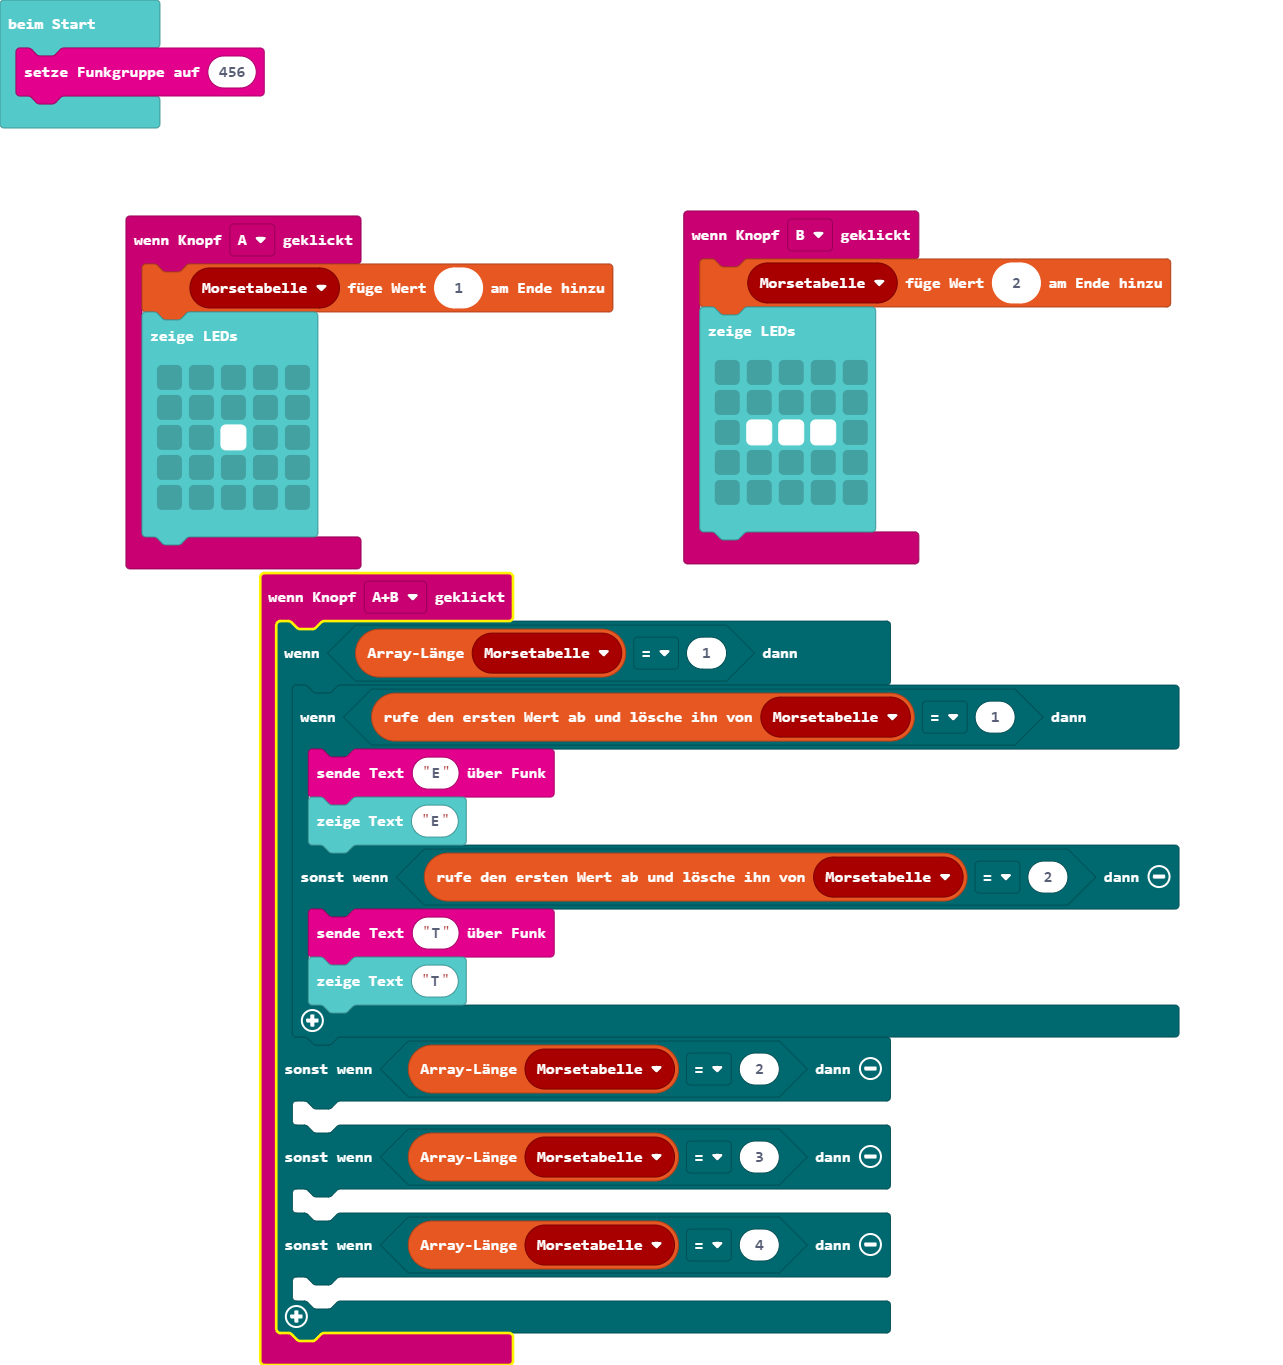
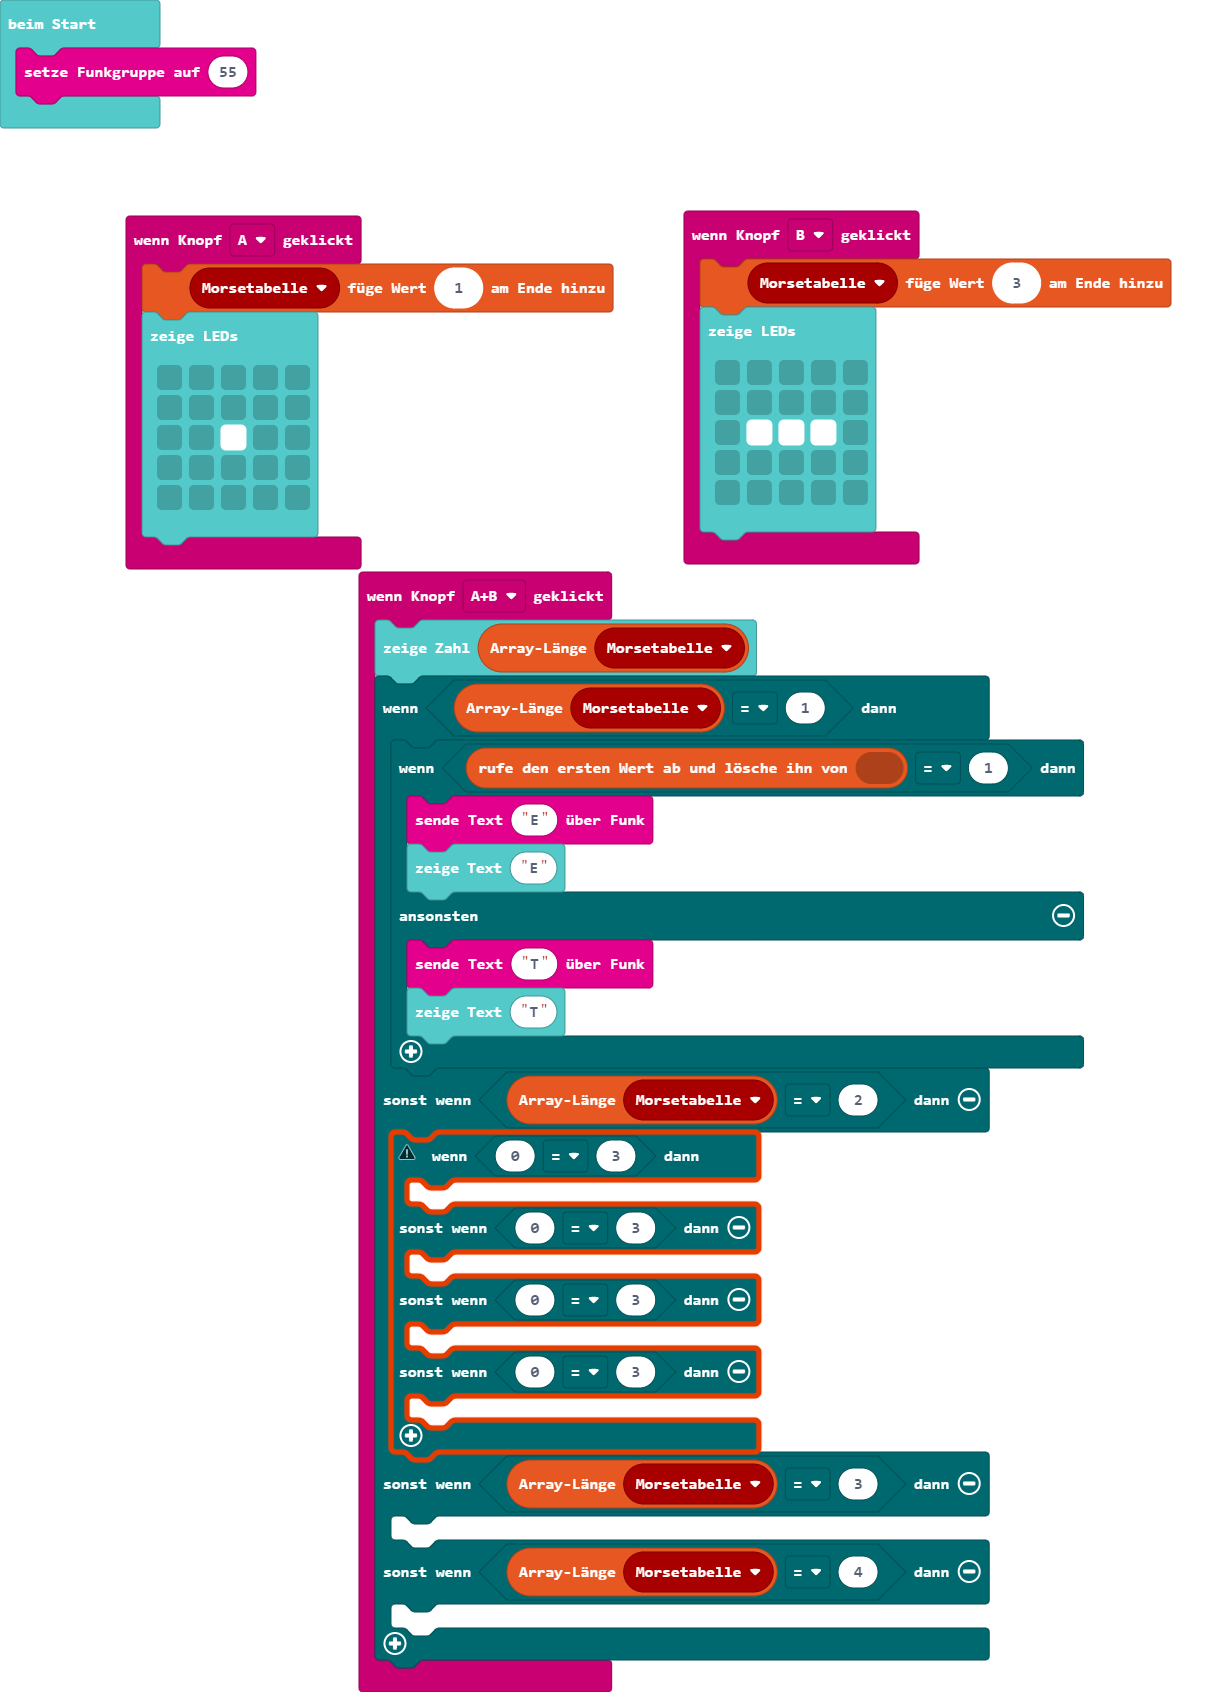
Aktualisiere pxt.json, main.blocks, main.ts

diff --git a/main.ts b/main.ts
@@ -9,16 +9,25 @@ input.onButtonPressed(Button.A, function () {
         `)
 })
 input.onButtonPressed(Button.AB, function () {
+    basic.showNumber(Morsetabelle.length)
     if (Morsetabelle.length == 1) {
         if (Morsetabelle.shift() == 1) {
             radio.sendString("E")
             basic.showString("E")
-        } else if (Morsetabelle.shift() == 2) {
+        } else {
             radio.sendString("T")
             basic.showString("T")
         }
     } else if (Morsetabelle.length == 2) {
-    	
+        if (0 == 3) {
+        	
+        } else if (0 == 3) {
+        	
+        } else if (0 == 3) {
+        	
+        } else if (0 == 3) {
+        	
+        }
     } else if (Morsetabelle.length == 3) {
     	
     } else if (Morsetabelle.length == 4) {
@@ -26,7 +35,7 @@ input.onButtonPressed(Button.AB, function () {
     }
 })
 input.onButtonPressed(Button.B, function () {
-    Morsetabelle.push(2)
+    Morsetabelle.push(3)
     basic.showLeds(`
         . . . . .
         . . . . .
@@ -36,4 +45,4 @@ input.onButtonPressed(Button.B, function () {
         `)
 })
 let Morsetabelle: number[] = []
-radio.setGroup(456)
+radio.setGroup(55)
